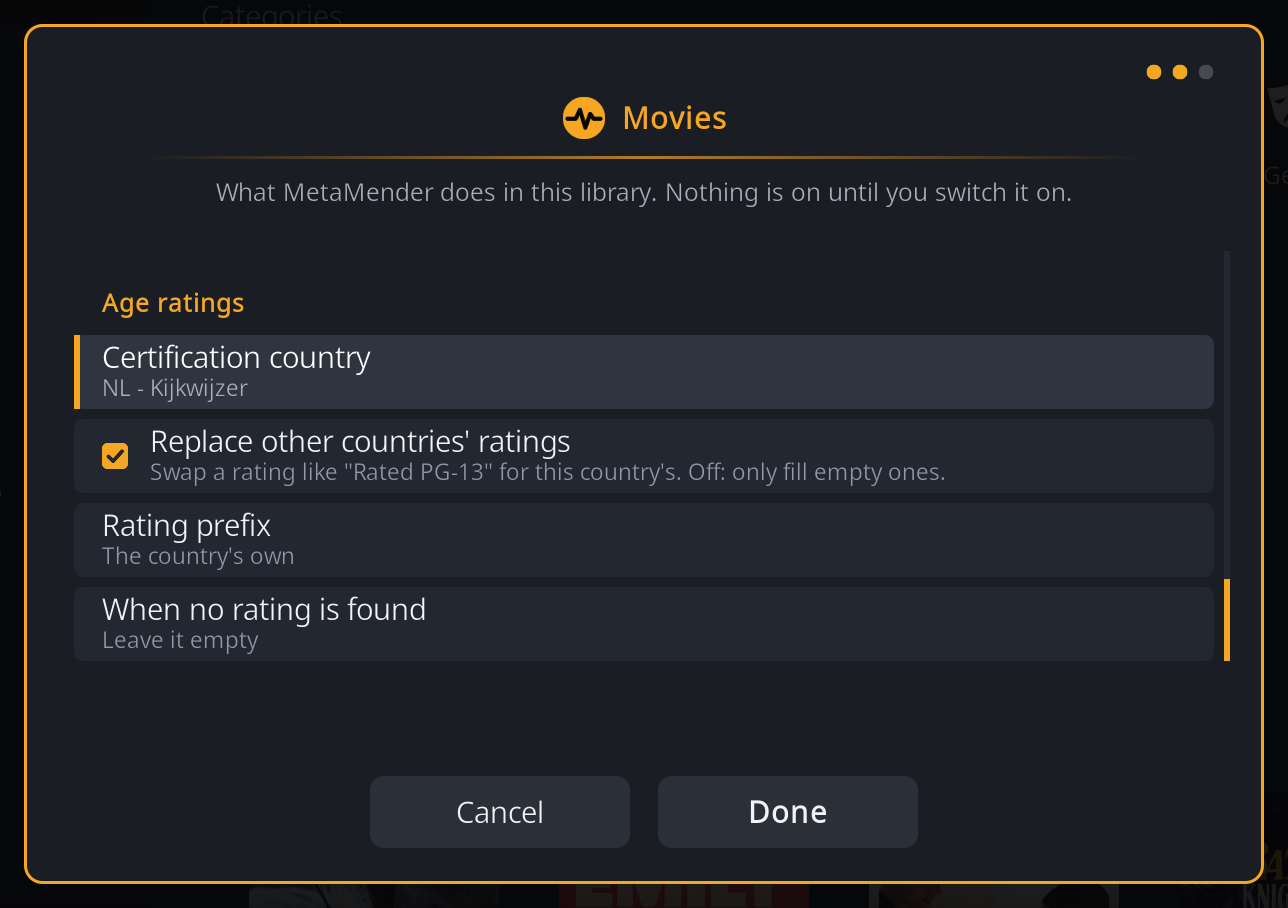
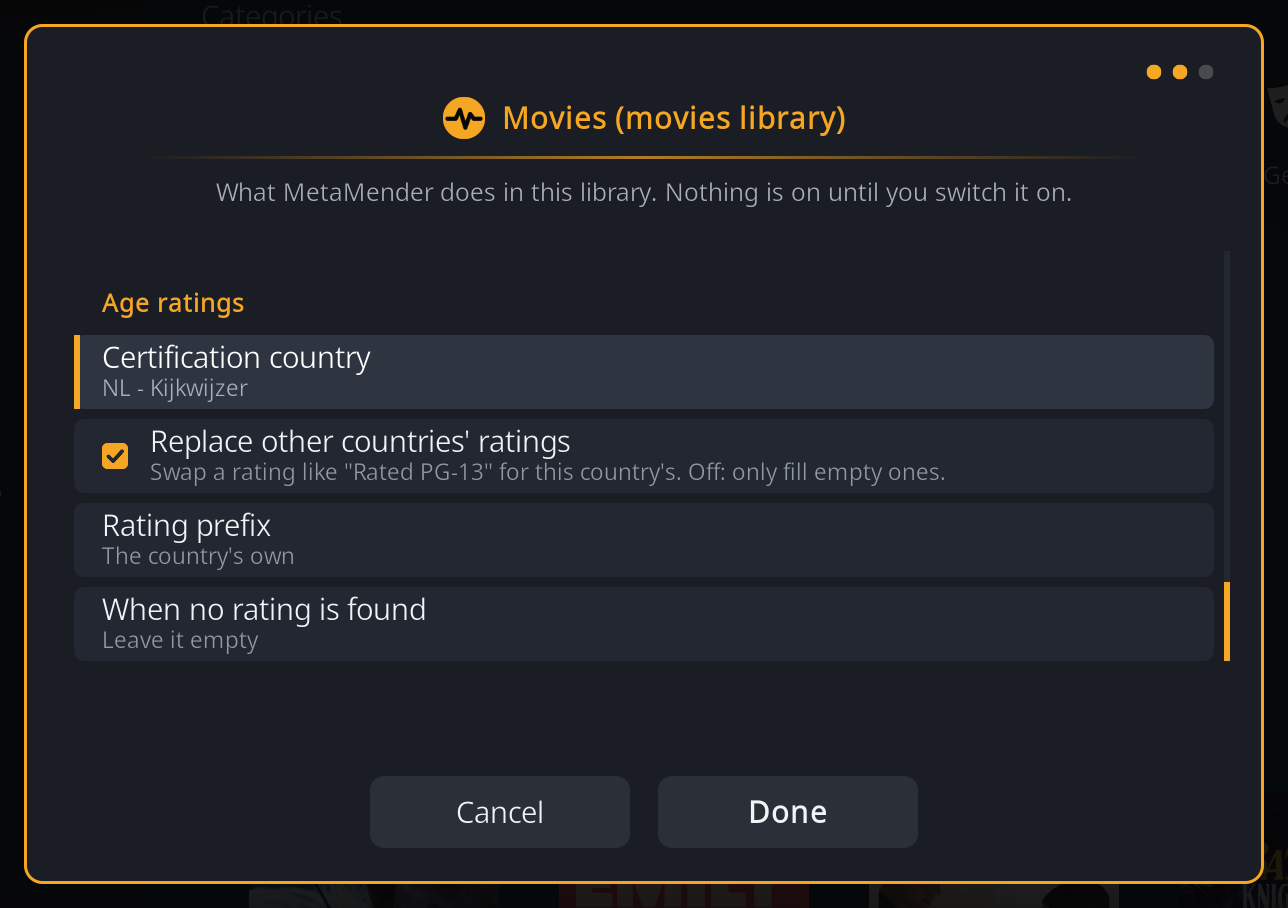
docs(screenshots): library pages with their kind in the heading

Changed region(s): [[0.3416, 0.0925, 0.6522, 0.1542]]

diff --git a/docs/libraries.md b/docs/libraries.md
@@ -64,7 +64,7 @@ on a library's page only returns to the list.
 
 ## A library's page
 
-![The page of a library with nothing switched on yet](screenshots/setup/setup-library-page-new.png)
+![The page of a TV shows library with nothing switched on yet](screenshots/setup/setup-library-page-new.png)
 
 The page holds every choice for one library, in groups. The first two groups,
 **Language** and **What to fill**, are always there; the others appear only
